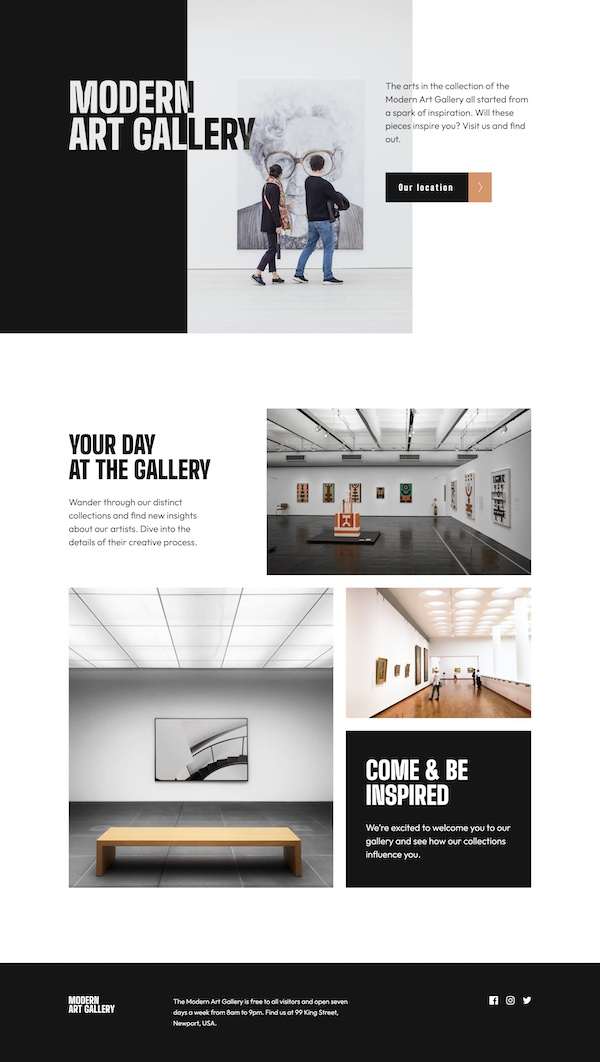
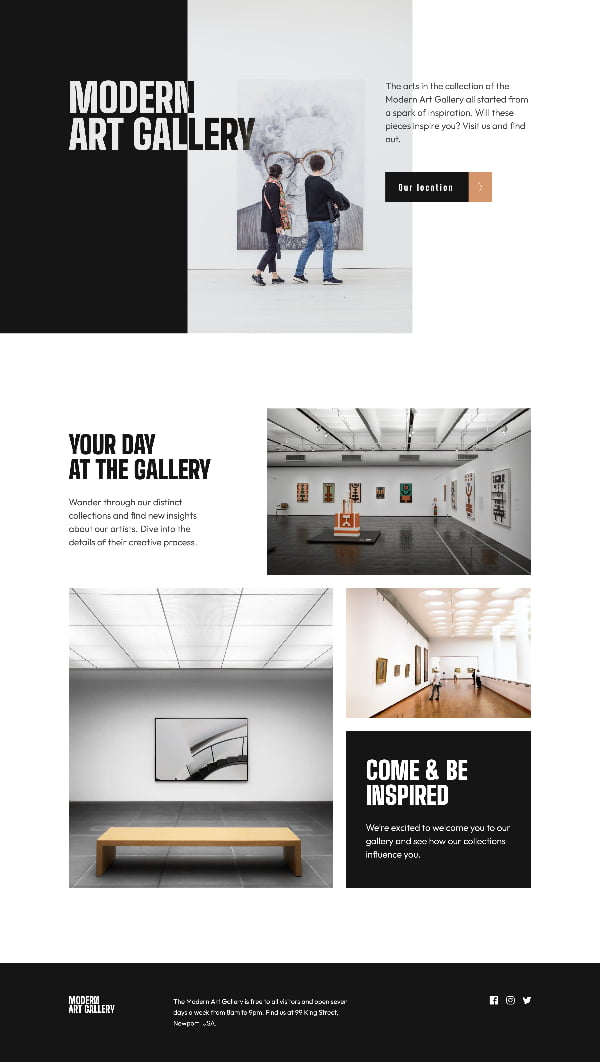
fix image optimization error

diff --git a/index.html b/index.html
@@ -336,15 +336,18 @@
 						<h3 class="font-p font-p--big">Name: Art Gallery Website</h3>
 					</div>
 					<div class="project-card__image-wrapper">
-						<img
-							srcset="
-								assets/img/art-gallery-screenshot@300w.jpg 1x,
-								assets/img/art-gallery-screenshot@600w.jpg 2x
-							"
-							src="assets/img/art-gallery-screenshot@300w.jpg"
-							alt="an image of a webpage"
-							loading="lazy"
-						>
+						<picture>          
+							<source 
+							srcset="assets/img/art-gallery-screenshot@300w.webp, 
+									assets/img/art-gallery-screenshot@600w.webp 2x" 
+							type="image/webp"> 
+							<img 
+							srcset="assets/img/art-gallery-screenshot@300w.jpg, 
+									assets/img/art-gallery-screenshot@600w.jpg 2x" 
+							src="assets/img/art-gallery-screenshot@300w.jpg" 
+							alt="webpage screenshot"
+							loading="lazy">
+						</picture>
 						<a
 							class="project-card__github-btn"
 							title="Github Repository"
@@ -398,15 +401,18 @@
 						<h3 class="font-p font-p--big">Name: Typemaster landing page</h3>
 					</div>
 					<div class="project-card__image-wrapper">
-						<img
-							srcset="
-								assets/img/typemaster-landing-screenshot@300w.jpg 1x,
-								assets/img/typemaster-landing-screenshot@600w.jpg 2x
-							"
-							src="assets/img/typemaster-landing-screenshot@300w.jpg"
-							alt="an image of a webpage"
-							loading="lazy"
-						>
+						<picture>          
+							<source 
+							srcset="assets/img/typemaster-landing-screenshot@300w.webp, 
+									assets/img/typemaster-landing-screenshot@600w.webp 2x" 
+							type="image/webp"> 
+							<img 
+							srcset="assets/img/typemaster-landing-screenshot@300w.jpg, 
+									assets/img/typemaster-landing-screenshot@600w.jpg 2x" 
+							src="assets/img/typemaster-landing-screenshot@300w.jpg" 
+							alt="webpage screenshot"
+							loading="lazy">
+						</picture>
 						<a
 							class="project-card__github-btn"
 							title="Github Repository"
@@ -460,15 +466,18 @@
 						<h3 class="font-p font-p--big">Name: Suite landing page</h3>
 					</div>
 					<div class="project-card__image-wrapper">
-						<img
-							srcset="
-								assets/img/suit-landing-screenshot@300w.jpg 1x,
-								assets/img/suit-landing-screenshot@600w.jpg 2x
-							"
-							src="assets/img/suit-landing-screenshot@300w.jpg"
-							alt="an image of a webpage"
-							loading="lazy"
-						>
+						<picture>          
+							<source 
+							srcset="assets/img/suit-landing-screenshot@300w.webp, 
+									assets/img/suit-landing-screenshot@600w.webp 2x" 
+							type="image/webp"> 
+							<img 
+							srcset="assets/img/suit-landing-screenshot@300w.jpg, 
+									assets/img/suit-landing-screenshot@600w.jpg 2x" 
+							src="assets/img/suit-landing-screenshot@300w.jpg" 
+							alt="webpage screenshot"
+							loading="lazy">
+						</picture>
 						<a
 							class="project-card__github-btn"
 							title="Github Repository"
